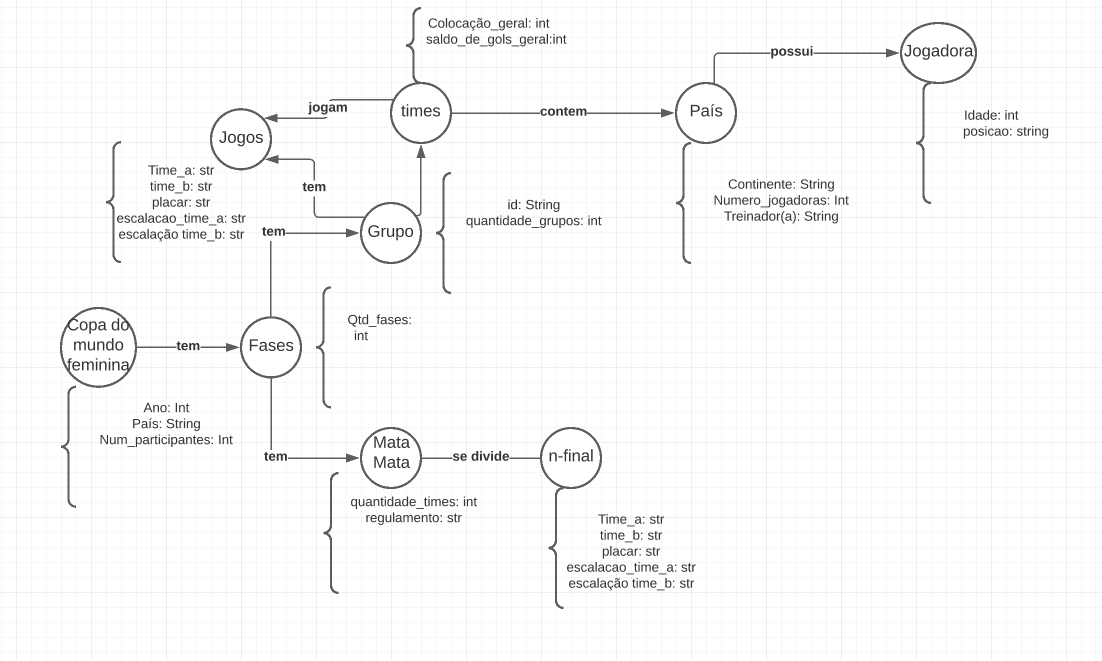
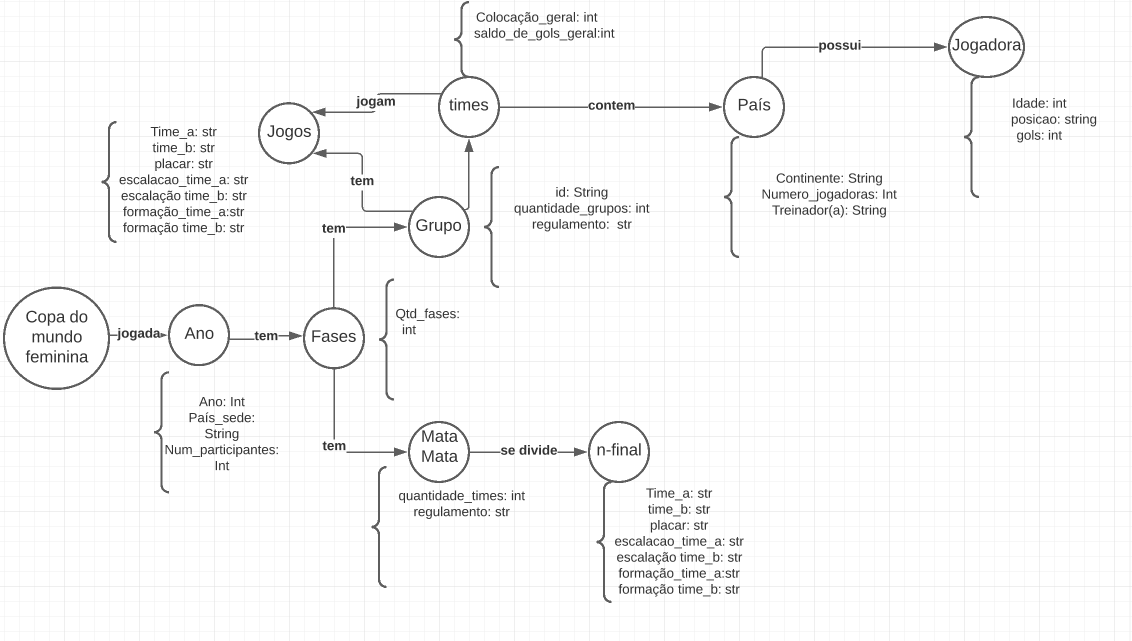
questions

Changed region(s): [[0.0926, 0.0, 0.9564, 0.4056], [0.0926, 0.5616, 0.6788, 0.936], [0.0, 0.4368, 0.4011, 0.624]]

diff --git a/lab07/README.md b/lab07/README.md
@@ -20,6 +20,6 @@ Estrutura de pastas:
 ## Perguntas de Pesquisa/análise
 
 > Liste aqui as três perguntas de pesquisa/análise
-> * Pergunta 1
-> * Pergunta 2
-> * Pergunta 3
+> * Baseado na colocação de um time e seu saldo de gols, é possível prever em que fase do mata-mata ele chegará?
+> * Baseado nas formações táticas dos times, existe uma que se destaca em relação jogos vencidos ?
+> * Baseado no país sede da copa do mundo, existe uma chance maior do time da casa ser o vencedor da copa?
